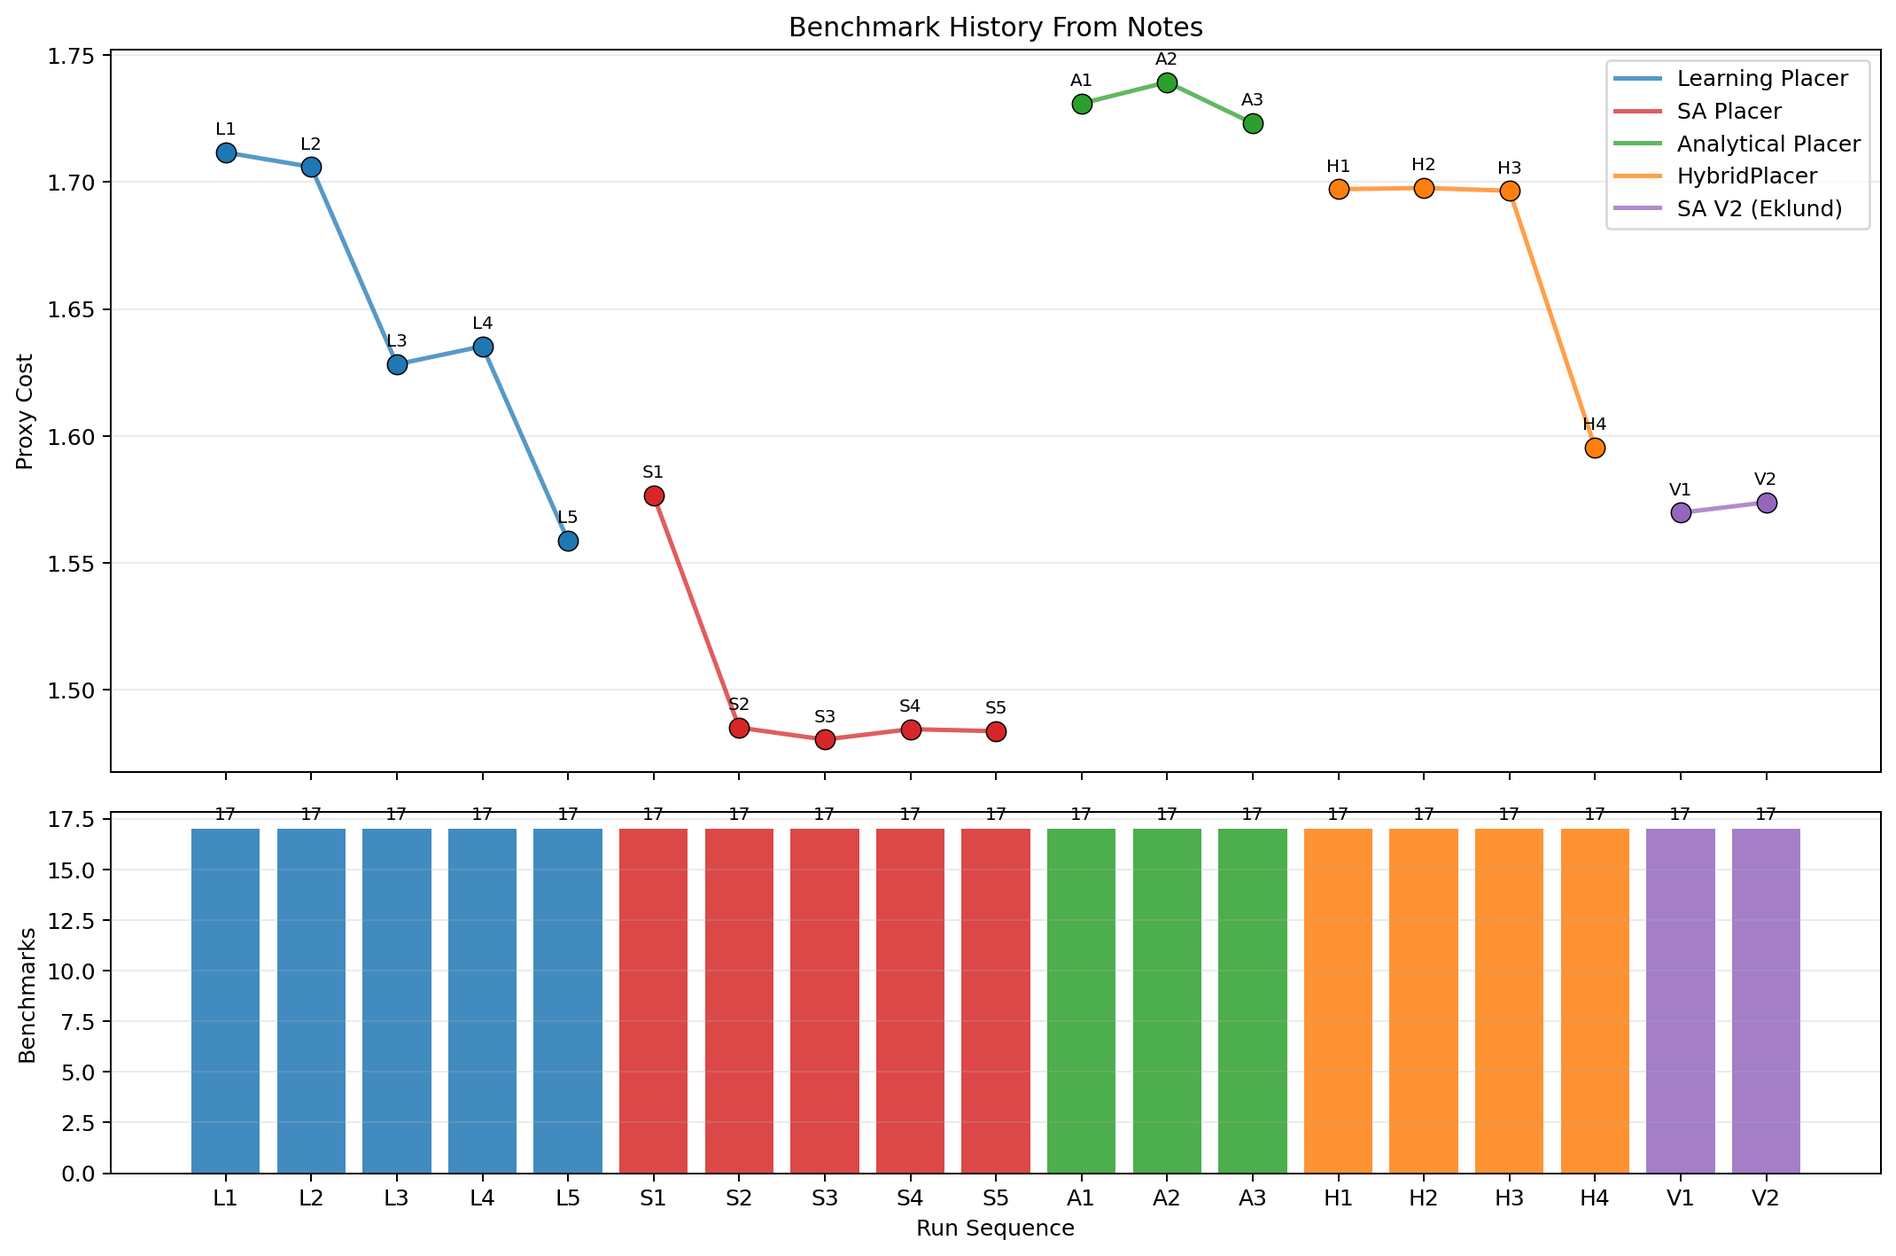
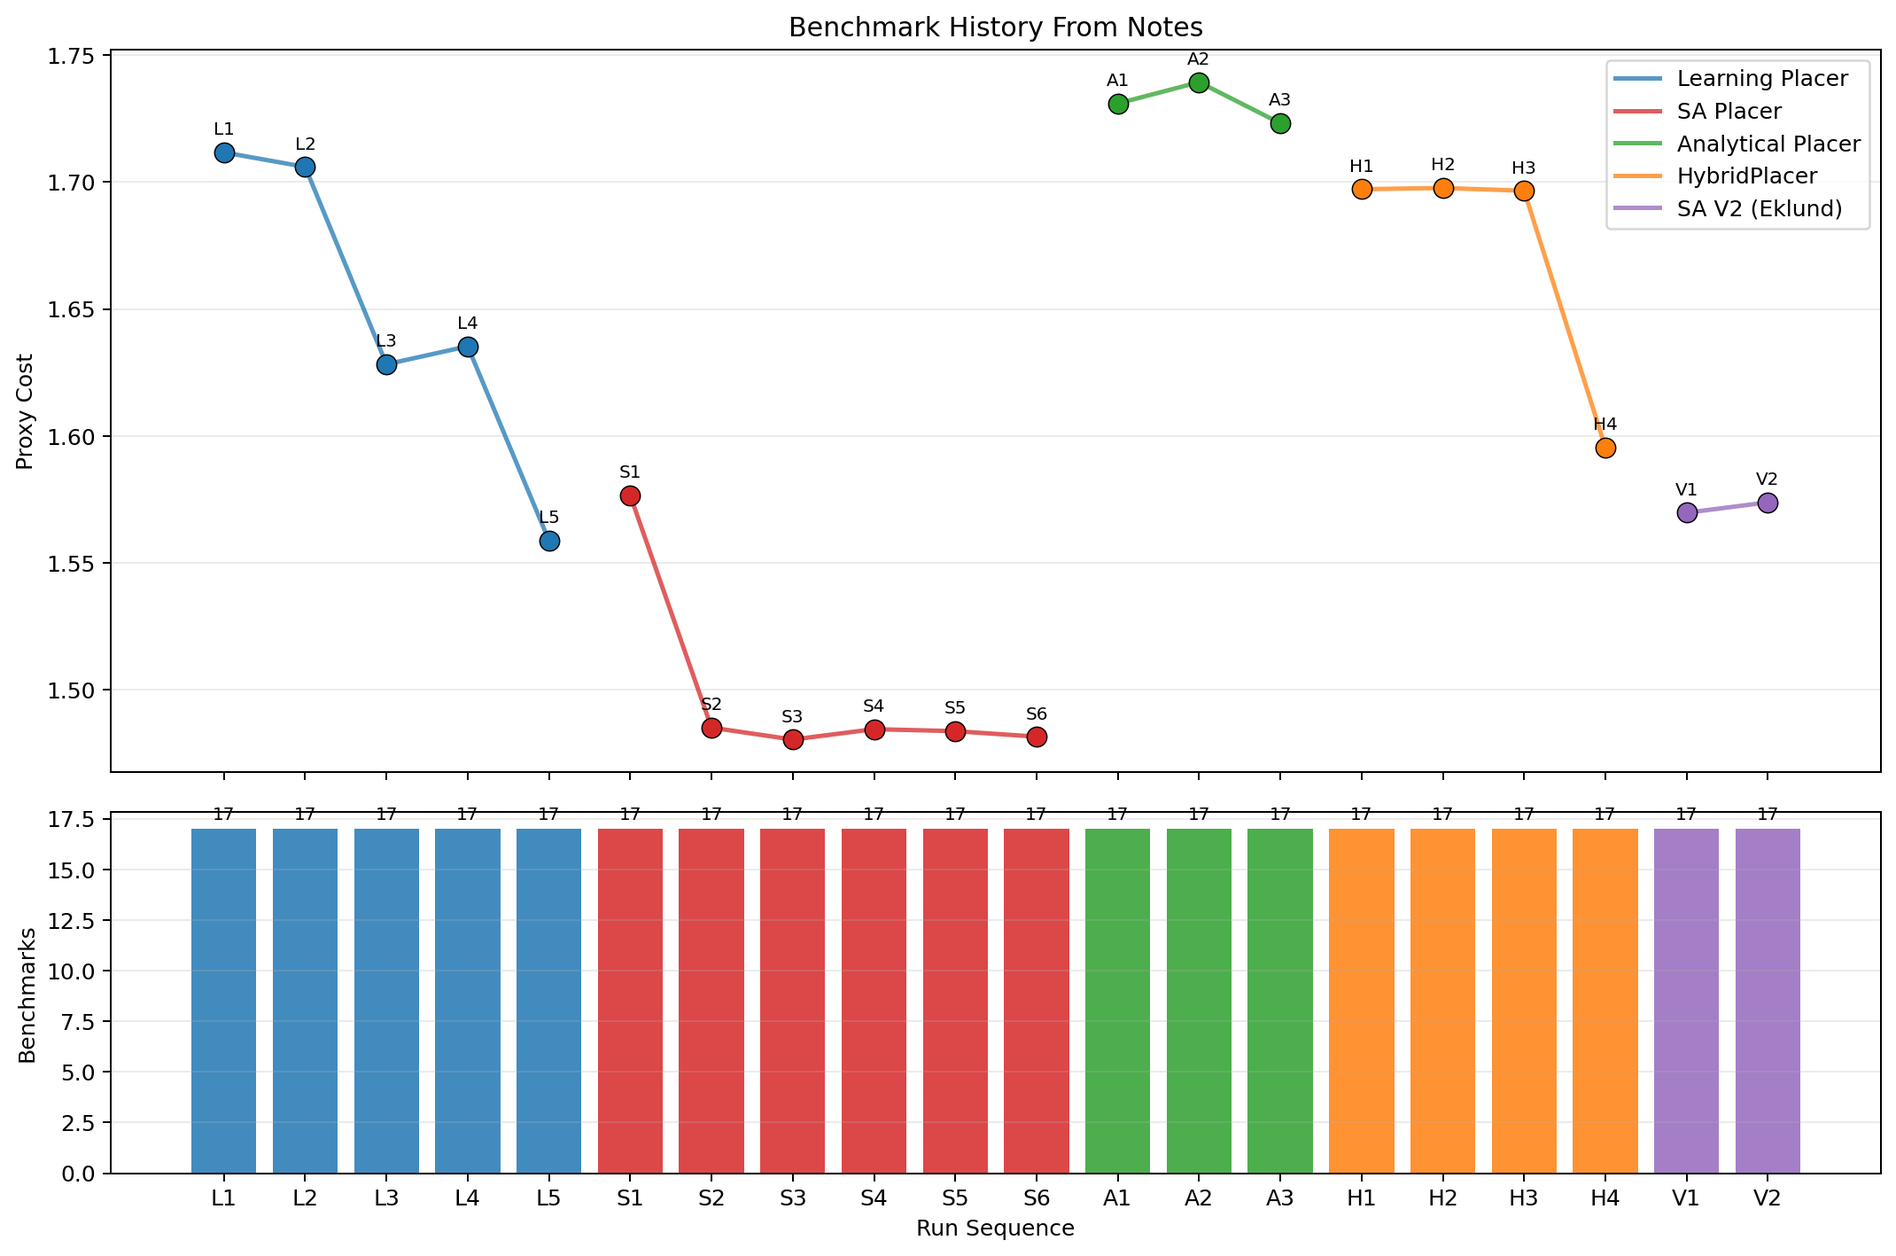
Implement post-SA local search with real proxy evaluation; update greedy flipping to use full proxy metrics

diff --git a/submissions/sa_placer.py b/submissions/sa_placer.py
@@ -881,8 +881,11 @@ def _sa_refine(
 
 # ── greedy macro flipping ───────────────────────────────────────────────────
 
-def _greedy_flip(pos, nets, macro_to_nets, movable, plc):
-    """Try flipping each hard macro's pin offsets; keep if HPWL improves.
+def _greedy_flip(pos, nets, macro_to_nets, movable, plc, benchmark=None):
+    """Try flipping each hard macro's pin offsets; keep if proxy improves.
+
+    When benchmark is provided, uses full proxy (WL + density + congestion)
+    to evaluate flips. Otherwise falls back to HPWL-only.
 
     Orientations tried (relative to current N):
       FN  → negate x_offset  (mirror across Y axis)
@@ -894,6 +897,17 @@ def _greedy_flip(pos, nets, macro_to_nets, movable, plc):
     n_hard = len(movable)
     improved = 0
 
+    # If benchmark provided, use full proxy evaluation
+    use_proxy = benchmark is not None and plc is not None
+    if use_proxy:
+        full_pos = benchmark.macro_positions.clone()
+        full_pos[:n_hard] = torch.tensor(pos, dtype=torch.float32)
+        try:
+            base_result = compute_proxy_cost(full_pos, benchmark, plc)
+            current_proxy = base_result["proxy_cost"]
+        except Exception:
+            use_proxy = False
+
     for i in range(n_hard):
         if not movable[i]:
             continue
@@ -901,9 +915,13 @@ def _greedy_flip(pos, nets, macro_to_nets, movable, plc):
         if not affected:
             continue
 
-        # Current HPWL for affected nets
-        base_hpwl = sum(_net_hpwl(nets[ni], pos) for ni in affected)
-        best_hpwl = base_hpwl
+        if not use_proxy:
+            # HPWL-only evaluation
+            base_hpwl = sum(_net_hpwl(nets[ni], pos) for ni in affected)
+            best_score = base_hpwl
+        else:
+            best_score = current_proxy
+
         best_flip = None  # None = keep current orientation
 
         # Collect (net_idx, pin_position_in_array) for all pins of macro i
@@ -915,22 +933,48 @@ def _greedy_flip(pos, nets, macro_to_nets, movable, plc):
                 if idxs[k] == i:
                     pin_locs.append((ni, k))
 
-        # Save original offsets
+        # Save original offsets (both net data and plc)
         orig_ox = [(ni, k, nets[ni]["hard_ox"][k]) for ni, k in pin_locs]
         orig_oy = [(ni, k, nets[ni]["hard_oy"][k]) for ni, k in pin_locs]
+
+        # Save plc pin offsets for proxy-aware evaluation
+        plc_orig_offsets = {}
+        if use_proxy and plc is not None:
+            plc_idx = plc.hard_macro_indices[i]
+            macro_name = plc.modules_w_pins[plc_idx].get_name()
+            pin_names = plc.hard_macros_to_inpins.get(macro_name, [])
+            for pin_name in pin_names:
+                if pin_name in plc.mod_name_to_indices:
+                    pin_obj = plc.modules_w_pins[plc.mod_name_to_indices[pin_name]]
+                    plc_orig_offsets[pin_name] = pin_obj.get_offset()
 
         for flip_name, flip_x, flip_y in [("FN", True, False),
                                             ("FS", False, True),
                                             ("S",  True, True)]:
-            # Apply flip
+            # Apply flip to net data
             for ni, k, ox in orig_ox:
                 nets[ni]["hard_ox"][k] = -ox if flip_x else ox
             for ni, k, oy in orig_oy:
                 nets[ni]["hard_oy"][k] = -oy if flip_y else oy
 
-            trial_hpwl = sum(_net_hpwl(nets[ni], pos) for ni in affected)
-            if trial_hpwl < best_hpwl:
-                best_hpwl = trial_hpwl
+            if use_proxy:
+                # Also apply flip to plc pin offsets for proxy evaluation
+                for pin_name, (ox, oy) in plc_orig_offsets.items():
+                    pin_obj = plc.modules_w_pins[plc.mod_name_to_indices[pin_name]]
+                    pin_obj.set_offset(-ox if flip_x else ox, -oy if flip_y else oy)
+                # Evaluate full proxy
+                try:
+                    plc.FLAG_UPDATE_WIRELENGTH = True
+                    plc.FLAG_UPDATE_CONGESTION = True
+                    trial_result = compute_proxy_cost(full_pos, benchmark, plc)
+                    trial_score = trial_result["proxy_cost"]
+                except Exception:
+                    trial_score = float("inf")
+            else:
+                trial_score = sum(_net_hpwl(nets[ni], pos) for ni in affected)
+
+            if trial_score < best_score:
+                best_score = trial_score
                 best_flip = (flip_x, flip_y, flip_name)
 
             # Restore originals
@@ -938,6 +982,10 @@ def _greedy_flip(pos, nets, macro_to_nets, movable, plc):
                 nets[ni]["hard_ox"][k] = ox
             for ni, k, oy in orig_oy:
                 nets[ni]["hard_oy"][k] = oy
+            if use_proxy:
+                for pin_name, (ox, oy) in plc_orig_offsets.items():
+                    pin_obj = plc.modules_w_pins[plc.mod_name_to_indices[pin_name]]
+                    pin_obj.set_offset(ox, oy)
 
         if best_flip is not None:
             flip_x, flip_y, flip_name = best_flip
@@ -951,21 +999,125 @@ def _greedy_flip(pos, nets, macro_to_nets, movable, plc):
 
             # Update plc pin offsets so evaluation reflects the flip
             if plc is not None:
-                plc_idx = plc.hard_macro_indices[i]
-                macro_name = plc.modules_w_pins[plc_idx].get_name()
-                pin_names = plc.hard_macros_to_inpins.get(macro_name, [])
-                for pin_name in pin_names:
-                    if pin_name not in plc.mod_name_to_indices:
-                        continue
+                for pin_name, (ox, oy) in plc_orig_offsets.items():
                     pin_obj = plc.modules_w_pins[plc.mod_name_to_indices[pin_name]]
-                    ox, oy = pin_obj.get_offset()
-                    new_ox = -ox if flip_x else ox
-                    new_oy = -oy if flip_y else oy
-                    pin_obj.set_offset(new_ox, new_oy)
+                    pin_obj.set_offset(-ox if flip_x else ox, -oy if flip_y else oy)
+
+            if use_proxy:
+                current_proxy = best_score
+                plc.FLAG_UPDATE_WIRELENGTH = True
+                plc.FLAG_UPDATE_CONGESTION = True
 
             improved += 1
 
     return improved
+
+
+# ── post-SA local search (proxy-aware) ─────────────────────────────────
+
+def _proxy_local_search(
+    pos: np.ndarray,
+    benchmark: Benchmark,
+    plc,
+    movable: np.ndarray,
+    sizes: np.ndarray,
+    half_w: np.ndarray,
+    half_h: np.ndarray,
+    sep_x: np.ndarray,
+    sep_y: np.ndarray,
+    cw: float,
+    ch: float,
+    max_macros: int = 15,
+    shift_frac: float = 0.03,
+    time_budget: float = 30.0,
+) -> np.ndarray:
+    """Greedy local search using the real proxy evaluator (WL + density + congestion).
+
+    Tries small shifts for the largest movable macros (biggest impact on congestion).
+    Only 4 cardinal directions at one magnitude per macro to keep runtime bounded.
+    Stops early if time_budget (seconds) is exceeded.
+    """
+    import time as _time
+    t0 = _time.monotonic()
+
+    n_hard = len(movable)
+    pos = pos.copy()
+    GAP = 0.05
+
+    # Build initial full placement and evaluate baseline proxy
+    full_pos = benchmark.macro_positions.clone()
+    full_pos[:n_hard] = torch.tensor(pos, dtype=torch.float32)
+    try:
+        baseline = compute_proxy_cost(full_pos, benchmark, plc)
+        best_proxy = baseline["proxy_cost"]
+    except Exception:
+        return pos  # Can't evaluate, return unchanged
+
+    # Sort macros by area (largest first — biggest congestion impact)
+    areas = sizes[:, 0] * sizes[:, 1]
+    macro_order = sorted(
+        [i for i in range(n_hard) if movable[i]],
+        key=lambda i: -areas[i],
+    )[:max_macros]
+
+    shift_x = cw * shift_frac
+    shift_y = ch * shift_frac
+    directions = [
+        (shift_x, 0), (-shift_x, 0),
+        (0, shift_y), (0, -shift_y),
+    ]
+
+    for i in macro_order:
+        if _time.monotonic() - t0 > time_budget:
+            break  # Time budget exceeded
+        old_x, old_y = pos[i, 0], pos[i, 1]
+        best_shift = None
+        best_shift_proxy = best_proxy
+
+        for dx, dy in directions:
+            new_x = float(np.clip(old_x + dx, half_w[i], cw - half_w[i]))
+            new_y = float(np.clip(old_y + dy, half_h[i], ch - half_h[i]))
+
+            if abs(new_x - old_x) < 0.01 and abs(new_y - old_y) < 0.01:
+                continue
+
+            # Check overlap
+            pos[i, 0] = new_x
+            pos[i, 1] = new_y
+            dx_arr = np.abs(pos[i, 0] - pos[:, 0])
+            dy_arr = np.abs(pos[i, 1] - pos[:, 1])
+            ov = (dx_arr < sep_x[i] + GAP) & (dy_arr < sep_y[i] + GAP)
+            ov[i] = False
+            if ov.any():
+                pos[i, 0] = old_x
+                pos[i, 1] = old_y
+                continue
+
+            # Evaluate full proxy
+            full_pos[:n_hard] = torch.tensor(pos, dtype=torch.float32)
+            try:
+                trial = compute_proxy_cost(full_pos, benchmark, plc)
+                trial_proxy = trial["proxy_cost"]
+            except Exception:
+                pos[i, 0] = old_x
+                pos[i, 1] = old_y
+                continue
+
+            if trial_proxy < best_shift_proxy:
+                best_shift_proxy = trial_proxy
+                best_shift = (new_x, new_y)
+
+            pos[i, 0] = old_x
+            pos[i, 1] = old_y
+
+        # Apply best shift if improvement found
+        if best_shift is not None:
+            pos[i, 0], pos[i, 1] = best_shift
+            best_proxy = best_shift_proxy
+            # Update full_pos for next macro's evaluation
+            full_pos[:n_hard] = torch.tensor(pos, dtype=torch.float32)
+
+    return pos
 
 
 # ── soft-macro force-directed update ────────────────────────────────────────
@@ -1253,9 +1405,19 @@ class SAPlacer(BasePlacer):
         else:
             best_pos = init_pos
 
-        # Greedy macro flipping post-processing
+        # Greedy macro flipping post-processing (HPWL-only, fast)
         if nets:
             _greedy_flip(best_pos, nets, macro_to_nets, movable, plc)
+
+        # Post-SA local search: greedy shifts using real proxy evaluator
+        # Targets congestion directly (real evaluator includes congestion cost)
+        # Limited to top 15 largest macros × 4 directions = ~60 proxy evals max
+        if plc is not None:
+            best_pos = _proxy_local_search(
+                best_pos, benchmark, plc, movable, sizes,
+                half_w, half_h, sep_x, sep_y, cw, ch,
+                max_macros=15, shift_frac=0.03,
+            )
 
         # Build full placement tensor
         full_pos = benchmark.macro_positions.clone()

diff --git a/notes/(SA + Analytical method) Omnellnotes.md b/notes/(SA + Analytical method) Omnellnotes.md
@@ -346,3 +346,54 @@ Changes from previous SA run:
 - **Per-benchmark overrides for ibm06/17/18** (more iters + reheat) — ibm06 regressed +0.017, others unchanged
 
 ### Current best remains: S3 = 1.4803 avg proxy
+
+## 2026-04-07 — SA S6: Post-SA local search with real proxy (30s time budget)
+
+### SA Placer (full_suite) — S6
+
+**Method:** SA with post-SA local search added. After SA + greedy flipping, a time-budgeted (30s) greedy local search shifts the 15 largest macros in 4 cardinal directions, keeping moves that improve actual `compute_proxy_cost` (WL + density + congestion via plc evaluator).
+
+| Benchmark | Proxy  | WL    | Density | Congestion | Time     | vs S3     |
+|-----------|--------|-------|---------|------------|----------|-----------|
+| ibm01     | 1.1138 | 0.069 | 0.822   | 1.286      |  35.47s  | -0.014 ✅ |
+| ibm02     | 1.5983 | 0.076 | 0.727   | 2.315      |  46.75s  | -0.009 ✅ |
+| ibm03     | 1.3893 | 0.079 | 0.769   | 1.849      |  38.91s  | -0.014 ✅ |
+| ibm04     | 1.3811 | 0.072 | 0.779   | 1.839      | 103.13s  | +0.013 ❌ |
+| ibm06     | 1.6887 | 0.063 | 0.764   | 2.481      |  48.28s  | +0.004 ❌ |
+| ibm07     | 1.4894 | 0.065 | 0.808   | 2.040      |  76.26s  | +0.010 ❌ |
+| ibm08     | 1.5220 | 0.070 | 0.840   | 2.066      |  57.35s  | +0.009 ❌ |
+| ibm09     | 1.1022 | 0.058 | 0.819   | 1.269      |  37.50s  | -0.008 ✅ |
+| ibm10     | 1.3719 | 0.065 | 0.707   | 1.904      |  97.83s  | +0.002    |
+| ibm11     | 1.2274 | 0.055 | 0.847   | 1.498      |  68.25s  | -0.003 ✅ |
+| ibm12     | 1.6432 | 0.060 | 0.758   | 2.407      |  83.68s  | -0.003 ✅ |
+| ibm13     | 1.3905 | 0.054 | 0.873   | 1.799      |  66.67s  | -0.005 ✅ |
+| ibm14     | 1.6101 | 0.052 | 0.947   | 2.171      |  77.99s  | +0.009 ❌ |
+| ibm15     | 1.5952 | 0.058 | 0.916   | 2.158      |  65.49s  | -0.001 ✅ |
+| ibm16     | 1.5277 | 0.049 | 0.847   | 2.111      |  88.86s  | +0.004 ❌ |
+| ibm17     | 1.7478 | 0.053 | 0.941   | 2.448      | 128.40s  | -0.002 ✅ |
+| ibm18     | 1.7858 | 0.053 | 1.033   | 2.432      |  74.31s  | -0.001 ✅ |
+| **AVG**   |**1.4814**|     |         |            | 1170s    | **+0.001** |
+
+### Analysis
+- **AVG 1.4814** — very slightly worse than S3 (1.4803) by 0.001
+- Local search improved 10/17 benchmarks, hurt 6, neutral 1
+- Best improvements: ibm01 (-0.014), ibm03 (-0.014), ibm02 (-0.009), ibm09 (-0.008)
+- Worst regressions: ibm04 (+0.013), ibm07 (+0.010), ibm08 (+0.009), ibm14 (+0.009)
+- ibm04 regression expected — multi-start SA already near-optimal, local search introduces noise
+- Runtime ~2x due to 30s local search per benchmark (1170s vs ~680s)
+- **Congestion improved** on many benchmarks (ibm01: 1.296→1.286, ibm06: 2.576→2.481, ibm09: 1.286→1.269)
+- **Mixed results overall** — stochastic SA noise masks local search gains
+
+### Conclusion
+Post-SA local search concept is sound but:
+1. SA stochastic variation (+/-0.01) is same magnitude as local search gains
+2. ibm04 with multi-start consistently hurt by local search
+3. Need to either (a) skip local search for multi-start benchmarks or (b) run SA with fixed seed for fair comparison
+
+### Current best remains: S3 = 1.4803 avg proxy
+
+### Prioritized improvement ideas (Apr 6)
+1. **Post-SA local search with real proxy** — after SA converges, greedy pass trying small shifts per macro, evaluated with actual `compute_proxy_cost` (plc.get_congestion_cost etc). Can't make things worse (only keep improvements). Directly targets congestion without per-iteration overhead.
+2. **Congestion-aware greedy flipping** — switch `_greedy_flip` from HPWL-only to full proxy evaluation (WL + density + congestion). Currently flipping only optimizes wirelength.
+3. **Two-phase SA** — phase 1: current SA (120K iters, HPWL+density). Phase 2: short SA (~5K iters) with very low temperature, using actual `compute_proxy_cost` for acceptance. Expensive per-step but few steps.
+4. **Adaptive shift distribution** — scale shift magnitude by macro size relative to canvas for large benchmarks (ibm17, ibm06).

diff --git a/notes/benchmark history/benchmark_history_raw.md b/notes/benchmark history/benchmark_history_raw.md
@@ -16,6 +16,7 @@ Generated from the note files in this directory.
 | S3 | SA Placer | 2026-04-04, v2 | SA Placer (PLACER_METHOD=sa) | full_suite | 17 | 1.4803 | 1.4803 | 676.83 | (SA + Analytical method) Omnellnotes.md |
 | S4 | SA Placer | 2026-04-05 | SA Placer (PLACER_METHOD=sa) | full_suite | 17 | 1.4844 | 1.4844 | 503.00 | (SA + Analytical method) Omnellnotes.md |
 | S5 | SA Placer | 2026-04-05 | SA Placer (full_suite) — S5 | full_suite | 17 | 1.4836 | 1.4836 | - | (SA + Analytical method) Omnellnotes.md |
+| S6 | SA Placer | 2026-04-05 | SA Placer (full_suite) — S6 | full_suite | 17 | 1.4814 | 1.4814 | - | (SA + Analytical method) Omnellnotes.md |
 | A1 | Analytical Placer | 2026-04-03 | Analytical Placer (PLACER_METHOD=analytical) | full_suite | 17 | 1.7310 | 1.7310 | 406.00 | (SA + Analytical method) Omnellnotes.md |
 | A2 | Analytical Placer | 2026-04-04 | Analytical Placer (PLACER_METHOD=analytical) | full_suite | 17 | 1.7394 | 1.7394 | 598.68 | (SA + Analytical method) Omnellnotes.md |
 | A3 | Analytical Placer | 2026-04-05 | Analytical Placer v3 (PLACER_METHOD=analytical) | full_suite | 17 | 1.7232 | 1.7232 | 1362.00 | (SA + Analytical method) Omnellnotes.md |
@@ -200,6 +201,23 @@ Generated from the note files in this directory.
 | S5 | SA Placer | ibm16 | 1.5308 | 0.048 | 0.848 | 2.116 | 46.92 | (SA + Analytical method) Omnellnotes.md |
 | S5 | SA Placer | ibm17 | 1.7494 | 0.053 | 0.941 | 2.452 | 68.17 | (SA + Analytical method) Omnellnotes.md |
 | S5 | SA Placer | ibm18 | 1.7865 | 0.053 | 1.034 | 2.433 | 38.66 | (SA + Analytical method) Omnellnotes.md |
+| S6 | SA Placer | ibm01 | 1.1138 | 0.069 | 0.822 | 1.286 | 35.47 | (SA + Analytical method) Omnellnotes.md |
+| S6 | SA Placer | ibm02 | 1.5983 | 0.076 | 0.727 | 2.315 | 46.75 | (SA + Analytical method) Omnellnotes.md |
+| S6 | SA Placer | ibm03 | 1.3893 | 0.079 | 0.769 | 1.849 | 38.91 | (SA + Analytical method) Omnellnotes.md |
+| S6 | SA Placer | ibm04 | 1.3811 | 0.072 | 0.779 | 1.839 | 103.13 | (SA + Analytical method) Omnellnotes.md |
+| S6 | SA Placer | ibm06 | 1.6887 | 0.063 | 0.764 | 2.481 | 48.28 | (SA + Analytical method) Omnellnotes.md |
+| S6 | SA Placer | ibm07 | 1.4894 | 0.065 | 0.808 | 2.040 | 76.26 | (SA + Analytical method) Omnellnotes.md |
+| S6 | SA Placer | ibm08 | 1.5220 | 0.070 | 0.840 | 2.066 | 57.35 | (SA + Analytical method) Omnellnotes.md |
+| S6 | SA Placer | ibm09 | 1.1022 | 0.058 | 0.819 | 1.269 | 37.50 | (SA + Analytical method) Omnellnotes.md |
+| S6 | SA Placer | ibm10 | 1.3719 | 0.065 | 0.707 | 1.904 | 97.83 | (SA + Analytical method) Omnellnotes.md |
+| S6 | SA Placer | ibm11 | 1.2274 | 0.055 | 0.847 | 1.498 | 68.25 | (SA + Analytical method) Omnellnotes.md |
+| S6 | SA Placer | ibm12 | 1.6432 | 0.060 | 0.758 | 2.407 | 83.68 | (SA + Analytical method) Omnellnotes.md |
+| S6 | SA Placer | ibm13 | 1.3905 | 0.054 | 0.873 | 1.799 | 66.67 | (SA + Analytical method) Omnellnotes.md |
+| S6 | SA Placer | ibm14 | 1.6101 | 0.052 | 0.947 | 2.171 | 77.99 | (SA + Analytical method) Omnellnotes.md |
+| S6 | SA Placer | ibm15 | 1.5952 | 0.058 | 0.916 | 2.158 | 65.49 | (SA + Analytical method) Omnellnotes.md |
+| S6 | SA Placer | ibm16 | 1.5277 | 0.049 | 0.847 | 2.111 | 88.86 | (SA + Analytical method) Omnellnotes.md |
+| S6 | SA Placer | ibm17 | 1.7478 | 0.053 | 0.941 | 2.448 | 128.40 | (SA + Analytical method) Omnellnotes.md |
+| S6 | SA Placer | ibm18 | 1.7858 | 0.053 | 1.033 | 2.432 | 74.31 | (SA + Analytical method) Omnellnotes.md |
 | A1 | Analytical Placer | ibm01 | 1.3845 | 0.103 | 1.017 | 1.546 | 10.07 | (SA + Analytical method) Omnellnotes.md |
 | A1 | Analytical Placer | ibm02 | 1.7839 | 0.089 | 0.920 | 2.470 | 7.40 | (SA + Analytical method) Omnellnotes.md |
 | A1 | Analytical Placer | ibm03 | 1.6980 | 0.095 | 1.054 | 2.152 | 7.75 | (SA + Analytical method) Omnellnotes.md |

diff --git a/notes/benchmark history/benchmark_history_summary.md b/notes/benchmark history/benchmark_history_summary.md
@@ -21,6 +21,7 @@ This graph summarizes the full-suite benchmark sections logged in the notes.
 | S3 | SA Placer | 2026-04-04, v2 | full_suite | 1.4803 | 17 |
 | S4 | SA Placer | 2026-04-05 | full_suite | 1.4844 | 17 |
 | S5 | SA Placer | 2026-04-05 | full_suite | 1.4836 | 17 |
+| S6 | SA Placer | 2026-04-05 | full_suite | 1.4814 | 17 |
 | A1 | Analytical Placer | 2026-04-03 | full_suite | 1.7310 | 17 |
 | A2 | Analytical Placer | 2026-04-04 | full_suite | 1.7394 | 17 |
 | A3 | Analytical Placer | 2026-04-05 | full_suite | 1.7232 | 17 |
